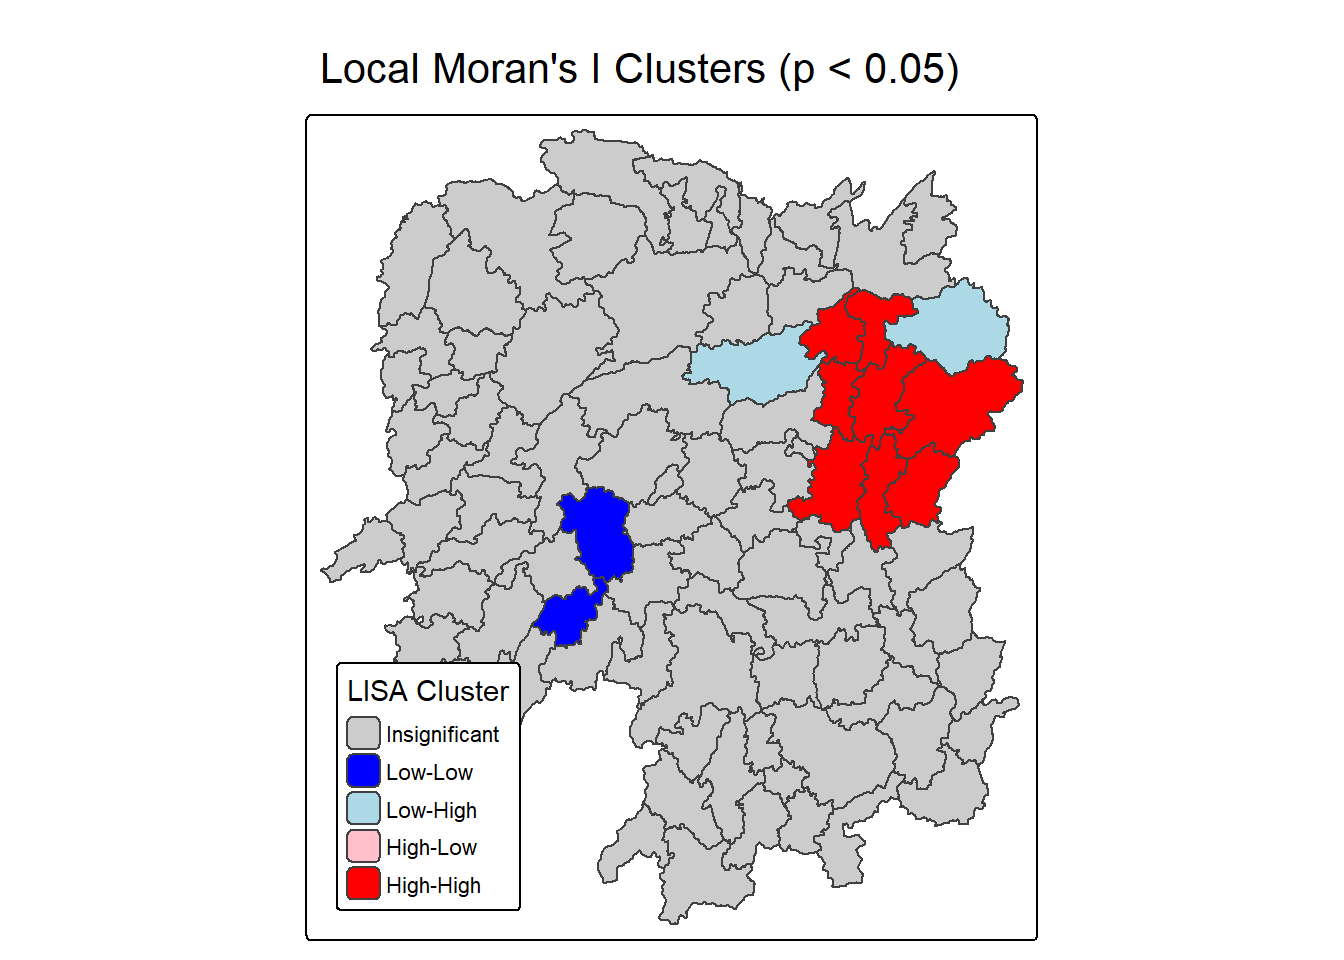
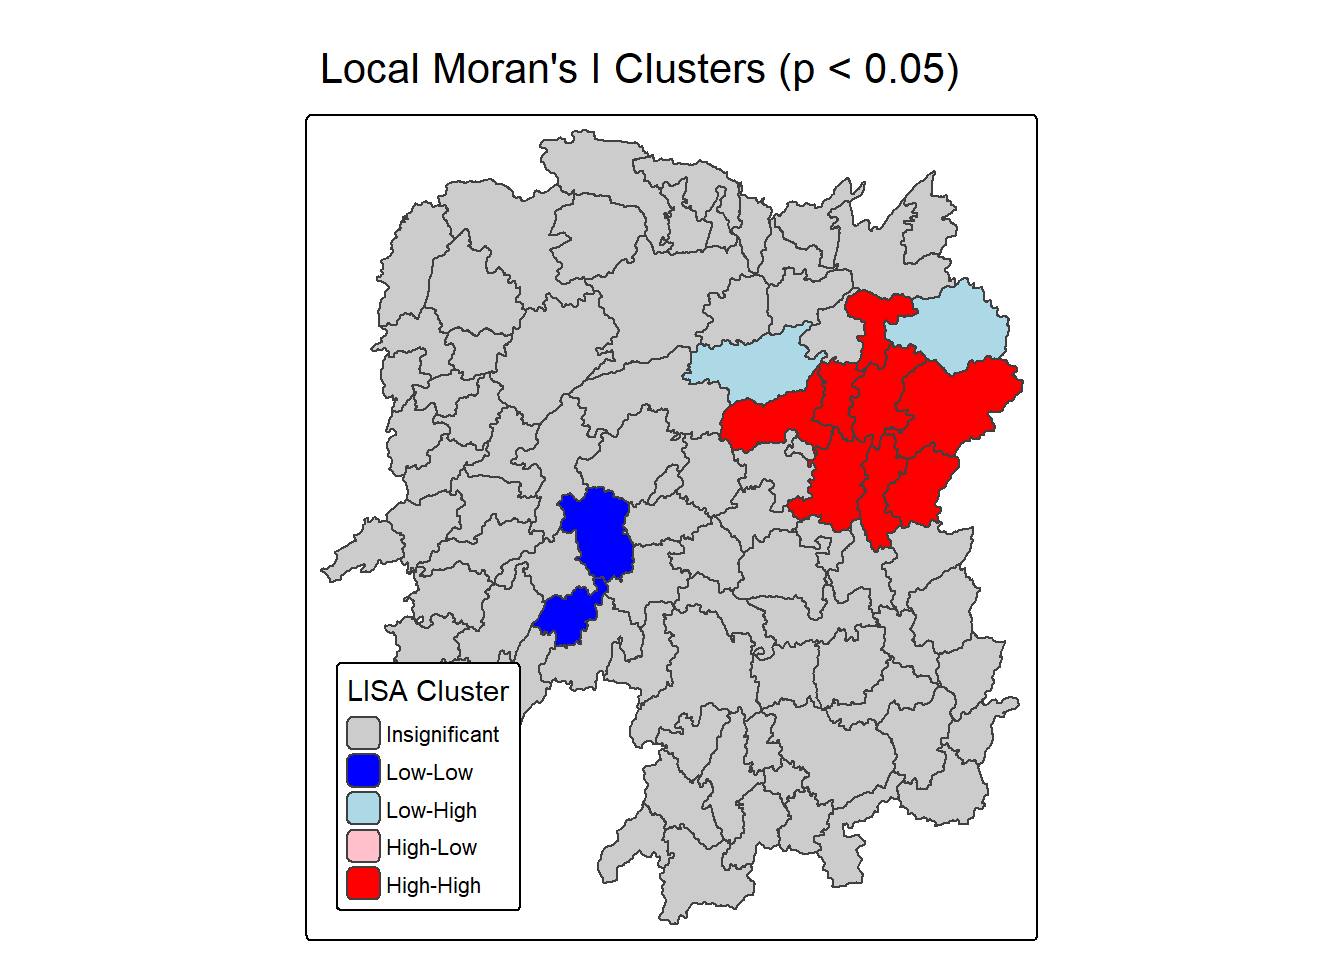
Committing changes for Hands-on Ex05b

Changed region(s): [[0.5312, 0.3125, 0.6562, 0.4688]]

diff --git a/_site/Hands-on_Ex/Hands-on_Ex05/Hands-on_Ex05b.html b/_site/Hands-on_Ex/Hands-on_Ex05/Hands-on_Ex05b.html
@@ -667,14 +667,14 @@ Tip
 <pre><code>Rows: 88
 Columns: 21
 $ ii           &lt;dbl&gt; -1.468468e-03, 2.587817e-02, -1.198765e-02, 1.022468e-03,…
-$ eii          &lt;dbl&gt; -1.452662e-03, 4.910310e-03, -8.368546e-03, 2.536916e-04,…
-$ var_ii       &lt;dbl&gt; 3.699390e-04, 1.136437e-02, 1.362830e-01, 5.630196e-06, 1…
-$ z_ii         &lt;dbl&gt; -0.0008217606, 0.1966896851, -0.0098034656, 0.3239948542,…
-$ p_ii         &lt;dbl&gt; 9.993443e-01, 8.440704e-01, 9.921781e-01, 7.459419e-01, 6…
-$ p_ii_sim     &lt;dbl&gt; 0.92, 0.98, 0.74, 0.70, 0.66, 0.76, 0.02, 0.14, 0.02, 0.1…
-$ p_folded_sim &lt;dbl&gt; 0.46, 0.49, 0.37, 0.35, 0.33, 0.38, 0.01, 0.07, 0.01, 0.0…
-$ skewness     &lt;dbl&gt; -0.7897984, -0.8968499, 1.3021867, 0.8454351, 0.4148598, …
-$ kurtosis     &lt;dbl&gt; 0.45812034, 0.40544752, 1.58194445, 0.23248532, -0.118471…
+$ eii          &lt;dbl&gt; 3.569347e-03, -1.734610e-02, -7.213027e-03, -1.194545e-04…
+$ var_ii       &lt;dbl&gt; 4.356639e-04, 1.212133e-02, 1.443504e-01, 4.982247e-06, 1…
+$ z_ii         &lt;dbl&gt; -0.24136061, 0.39260209, -0.01256695, 0.51159218, 0.45168…
+$ p_ii         &lt;dbl&gt; 8.092756e-01, 6.946134e-01, 9.899733e-01, 6.089365e-01, 6…
+$ p_ii_sim     &lt;dbl&gt; 0.70, 0.86, 0.72, 0.42, 0.56, 0.76, 0.02, 0.06, 0.02, 0.2…
+$ p_folded_sim &lt;dbl&gt; 0.35, 0.43, 0.36, 0.21, 0.28, 0.38, 0.01, 0.03, 0.01, 0.1…
+$ skewness     &lt;dbl&gt; -0.8706282, -0.7944021, 1.3824554, 1.3059959, 1.7907189, …
+$ kurtosis     &lt;dbl&gt; 0.48446629, 0.54217013, 2.21208026, 1.97964539, 4.2512015…
 $ mean         &lt;fct&gt; Low-High, Low-Low, High-Low, High-High, High-High, High-L…
 $ median       &lt;fct&gt; High-High, High-High, High-High, High-High, High-High, Hi…
 $ pysal        &lt;fct&gt; Low-High, Low-Low, High-Low, High-High, High-High, High-L…
@@ -1496,7 +1496,6 @@ Note
 <li><strong>Policy relevance</strong>: Highlights priority zones for economic intervention or support.</li>
 <li><strong>Visual clarity</strong>: Uses intuitive color coding and categorical classification for quick interpretation.</li>
 </ul>
-<p>Let me know if you’d like to overlay this with demographic data or compare results using adaptive distance weights!</p>
 </div>
 </div>
 

diff --git a/_site/index.html b/_site/index.html
@@ -358,7 +358,7 @@ window.Quarto = {
 <h2 class="anchored" data-anchor-id="hands-on-exercise"><a href=".\Hands-on_Ex/">Hands-on Exercise</a></h2>
 <div id="listing-hands_on" class="listing quarto-listing quarto-listing-container-grid">
 <div class="list grid quarto-listing-cols-3">
-<div class="g-col-1" data-index="0" data-listing-date-sort="1758556800000" data-listing-file-modified-sort="1758870915899" data-listing-date-modified-sort="1758870915000" data-listing-reading-time-sort="40" data-listing-word-count-sort="7932">
+<div class="g-col-1" data-index="0" data-listing-date-sort="1758556800000" data-listing-file-modified-sort="1758871072248" data-listing-date-modified-sort="1758871072000" data-listing-reading-time-sort="40" data-listing-word-count-sort="7914">
 <a href="./Hands-on_Ex/Hands-on_Ex05/Hands-on_Ex05b.html" class="quarto-grid-link">
 <div class="quarto-grid-item card h-100 card-left">
 <p class="card-img-top"><img src="Hands-on_Ex\Hands-on_Ex05\Hands-on_Ex05b_files\figure-html\unnamed-chunk-5-1.png" style="height: 150px;"  class="thumbnail-image card-img"/></p>

diff --git a/_site/Hands-on_Ex/index.html b/_site/Hands-on_Ex/index.html
@@ -305,7 +305,7 @@ window.Quarto = {
     </div>
 </div>
 <div class="list grid quarto-listing-cols-3">
-<div class="g-col-1" data-index="0" data-listing-date-sort="1758556800000" data-listing-file-modified-sort="1758870915899" data-listing-date-modified-sort="1758870915000" data-listing-reading-time-sort="40" data-listing-word-count-sort="7932">
+<div class="g-col-1" data-index="0" data-listing-date-sort="1758556800000" data-listing-file-modified-sort="1758871072248" data-listing-date-modified-sort="1758871072000" data-listing-reading-time-sort="40" data-listing-word-count-sort="7914">
 <a href="../Hands-on_Ex/Hands-on_Ex05/Hands-on_Ex05b.html" class="quarto-grid-link">
 <div class="quarto-grid-item card h-100 card-left">
 <p class="card-img-top"><img src="Hands-on_Ex05\Hands-on_Ex05b_files\figure-html\unnamed-chunk-5-1.png" style="height: 150px;"  class="thumbnail-image card-img"/></p>
